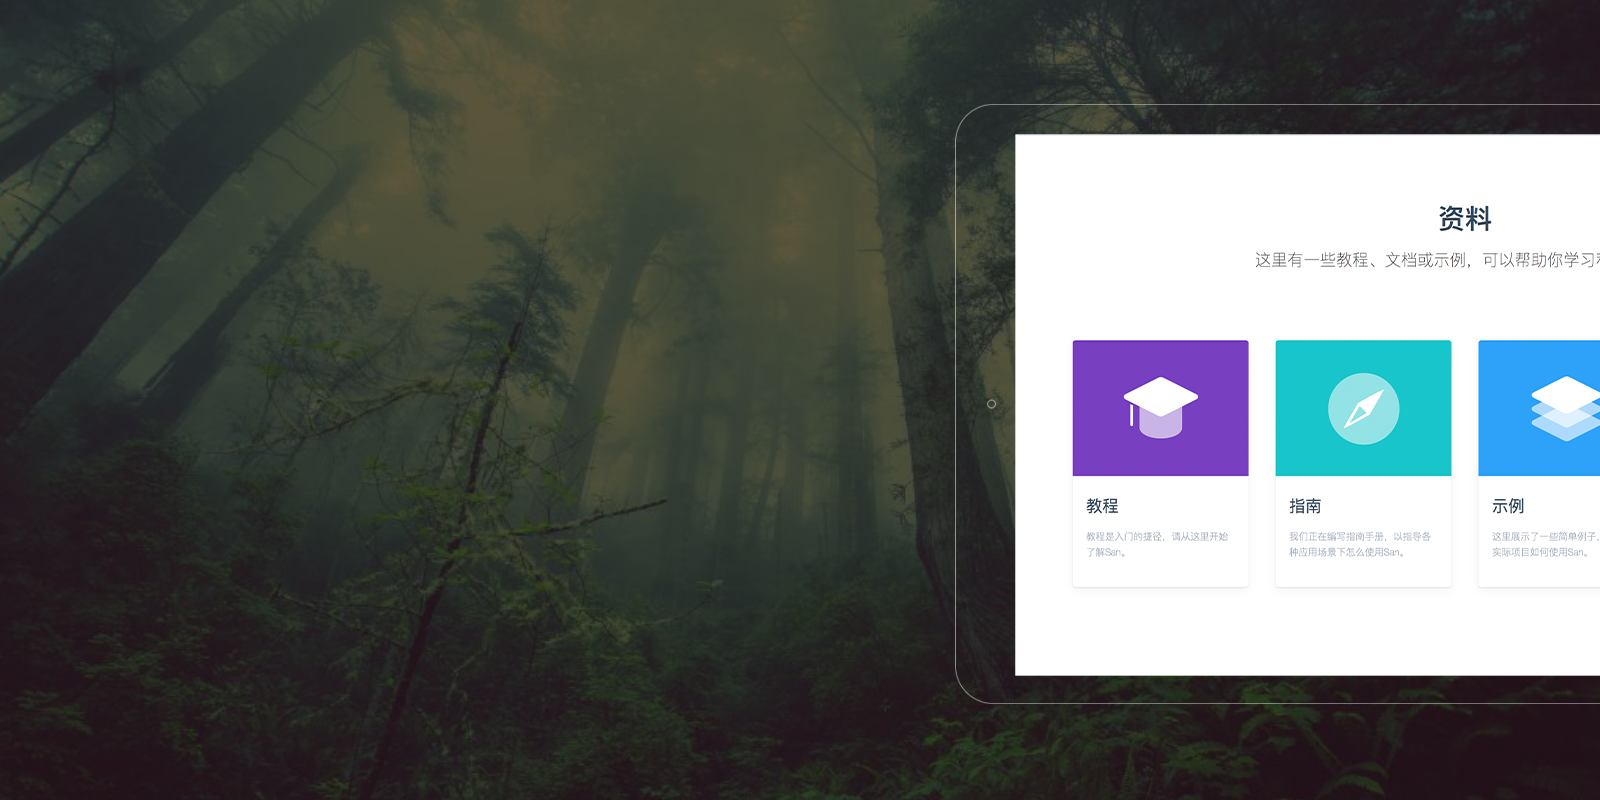
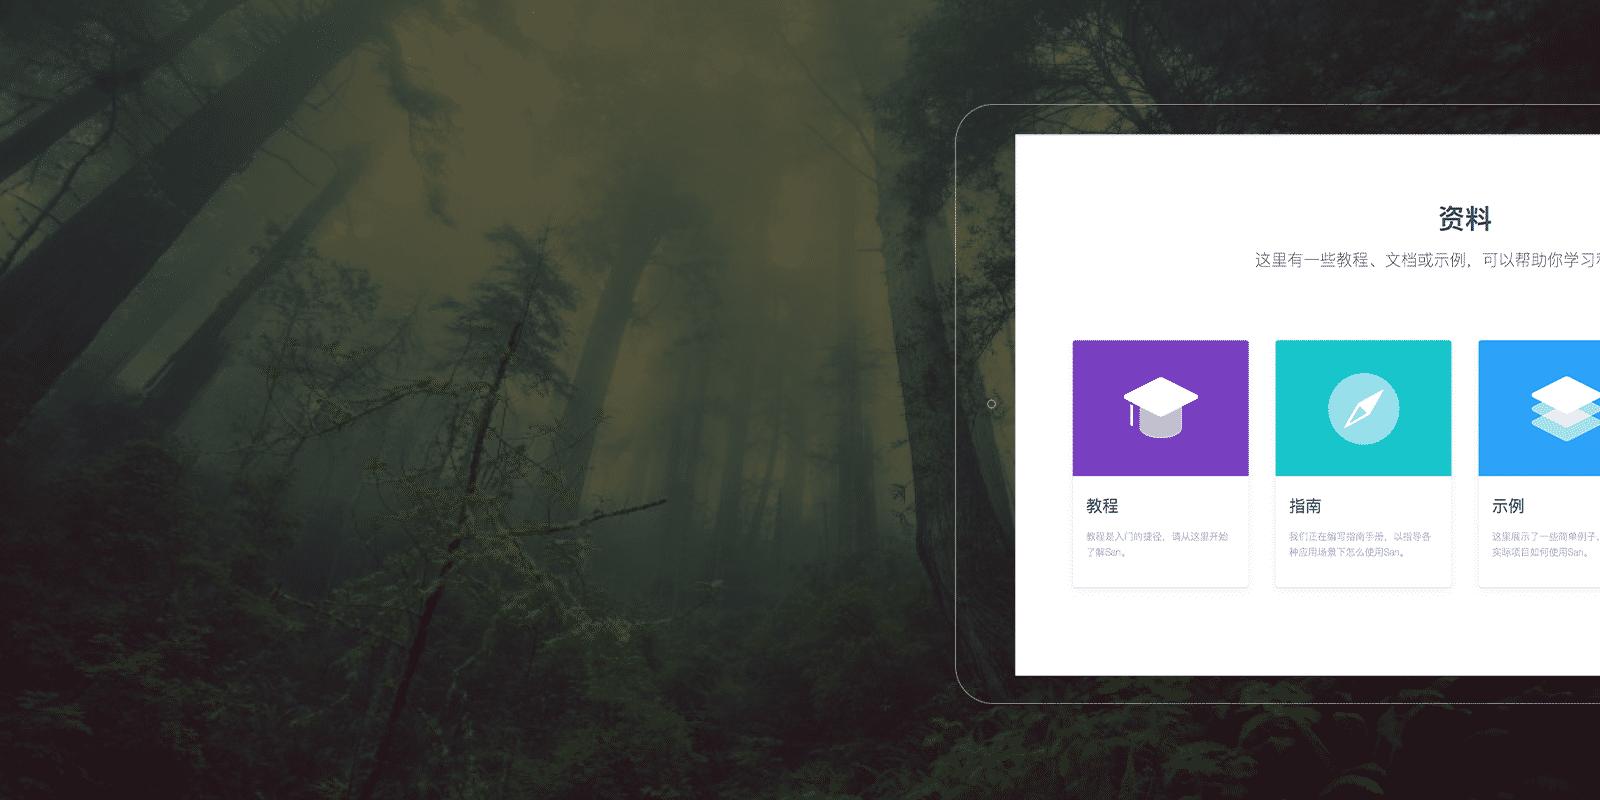
图片压缩

diff --git a/web.html b/web.html
@@ -576,7 +576,7 @@
     <div class="container">
       <div class="row  rowImg">
         <div class="col-4 ">
-          <img src="img/张思远大.png" alt="张思远大">
+          <img src="img/nn.png" alt="张思远">
         </div>
         <div class="col-4 col_left">
           <img src="img/Userpic 2.png" alt="">
